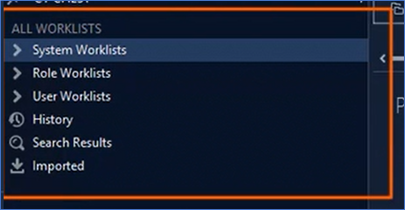
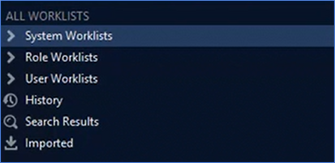
info-window image clean up and format organization

Changed region(s): [[0.0, 0.0, 1.0, 1.0]]

diff --git a/src/content/docs/en/info-window.md b/src/content/docs/en/info-window.md
@@ -7,56 +7,36 @@ This is the main screen upon loading into IDS7 PACS.
 
 ![Information Window Image](/basics/info-window.png)
 
-<br /><br />
+<br />
 
-### Top Side
-- **Menu Bar**:
+---
 
-    ![Menu Bar](/basics/menubar.png)
-<br /><br /><br />
+## Top Side
 
-- **Toolbar**:
-    - Most commonly used tools, based on users preferred role
+### Menu Bar &emsp; ![Menu Bar](/basics/menubar.png)
 
-    ![Toolbar](/basics/toolbar.png)
-<br /><br /><br />
+### Toolbar
 
-- **Patient Banner**:
-    - Displays selected patient's name/DOB/sex/MRN, and other relevant alerts (i.e.~ allergies)
+![Toolbar](/basics/toolbar.png)
 
-    ![Patient Banner](/basics/patientbanner.png)
-<br /><br /><br />
+- Most commonly used tools, based on users preferred role
 
-- **Toolbar Alert**:
-    - located top-right corner
-    - Warnings and other prompts to the users will be displayed - refer to the user guide within PACS via `[F1] hotkey` for more details
+> 💡 **Tip:** Buttons and sequence order can be changed by `Right-Click`ing the toolbar, and selecting *Customize Toolbar*
+
+### Patient Banner
+
+![Patient Banner](/basics/patientbanner.png)
+
+- Displays selected patient's name/DOB/sex/MRN, and other relevant alerts (i.e.~ allergies)
+
+### Toolbar Alert
 
 <img src="/basics/toolbar-alert.png" width="207" height="140">
 
-<br/>
+<br />
 
----
-
-<br/>
-
-### Left Side
-- **Worklist Groups**:
-    - Different often-used worklists can be dragged and dropped into this region
-
-    > 💡 **Tip:** Customize your own worklist groupings, then use the dropdown arrow to change from favorites to a different group!
-
-    ![Worklist Group](/basics/worklist-group.png)
-
-<br/>
-
-- **Complete Worklist Tree**:
-    - Shows all available premade worklists, sorted by System, Role, and User levels
-    - **History**
-        : tab allows you to quickly navigate your previously viewed cases
-    - **Search Results**
-        : for any previous searches you've made, the results will still be available to view again until a new search is made
-
-    ![Complete Worklist Tree](/basics/complete-worklist-tree.png)
+- located top-right corner
+- Warnings and other prompts to the users will be displayed - refer to the user guide within PACS via `[F1] hotkey` for more details
 
 <br/>
 
@@ -64,52 +44,75 @@ This is the main screen upon loading into IDS7 PACS.
 
 <br/>
 
-### Center Screen
-- **Worklist Results**:
-    - Displays all matching studies for the selected worklist
+## Left Side
 
-    ![Worklist Results](/basics/worklist-results.png)
+### Worklist Groups
+    
+![Worklist Group](/basics/worklist-group.png)
 
-<br/>
+- A place to organize your different worklist sets
+- Worklists found in the **Complete Worklist Tree** *(see below)* can be drag-and-dropped into this region for future quick access
+- Everyone has a `FAVORITES` Worklist Group by default
 
-- **Patient History**:
-    - a.k.a.~ Patient Jacket
-    - All examinations for the selected patient will be displayed
-    - `Double-Clicking` on the on an exam will set it as the "current exam", marking it with a green arrow, and opening the study into the [Image Window](/en/image-window)
+> 💡 **Tip:** Click the dropdown arrow beside `FAVORITES`, and then select *New Worklist Group* to generate a new empty group for use!
 
-    ![Patient History](/basics/patient-history.png)
+### Complete Worklist Tree
 
-<br/>
+![Complete Worklist Tree](/basics/complete-worklist-tree.png)
 
-- **Image Overview**:
-    - Will display the thumbnails of all series within the study
-    - `Double-Clicking` on the thumbnail will open the image in the [Quick Window](/en/quick-window)
+- Shows all available premade worklists, sorted by System, Role, and User levels
+- **History Tab:**
+    
+    <br />
 
-    ![Image Overview](/basics/image-overview.png)
-    <br/><br/>
-    - `Drag` the thumbnail to produce a "mini-monitor" to quickly set which series to be viewed in the [Image Window](/en/image-window)
+    - Allows you to quickly navigate your previously viewed cases
+    - See [Notable Functionalities](#notable-functionalities) for more details
 
-    ![Image Overview Drag Feature](/basics/image-overview-drag.png)
+    <br />
 
-<br/>
+- **Search Results:**
 
----
-
-<br/>
-
-### Right Side
-- **Request View**:
-    - Shows request, case history, and comments of selected study
-
-    ![Request View](/basics/request-view.png)
+    <br />
+    
+    - For any previous searches you've made, the results will still be available to view again until a new search is made
+    - See [Notable Functionalities](#notable-functionalities) for more details
 
 <br />
 
-- **Report View**:
-    - Shows all reports for the selected examination
-    - If multiple reports are present for that study, you may toggle between reports using the left | right arrow buttons
+---
 
-    ![Report View](/basics/report-view.png)
+<br />
+
+## Center Screen
+
+### Worklist Results
+
+![Worklist Results](/basics/worklist-results.png)
+
+- Displays all matching studies for the selected worklist
+
+<br/>
+
+### Patient History
+
+![Patient History](/basics/patient-history.png)
+
+- a.k.a.~ Patient Jacket
+- All examinations for the selected patient will be displayed
+- `Double-Clicking` on the on an exam will set it as the "current exam", marking it with a green arrow, and opening the study into the [Image Window](/en/image-window)
+
+<br/>
+
+### Image Overview
+
+![Image Overview](/basics/image-overview.png)
+
+- Will display the thumbnails of all series within the study
+- `Double-Clicking` on the thumbnail will open the image in the [Quick Window](/en/quick-window)
+
+![Image Overview Drag Feature](/basics/image-overview-drag.png)
+
+- `Drag` a thumbnail produces a "mini-monitor" to quickly set which series to be viewed in the [Image Window](/en/image-window)
 
 <br/>
 
@@ -117,36 +120,55 @@ This is the main screen upon loading into IDS7 PACS.
 
 <br/>
 
-### Information Window Notable Functionalities:
-- **Patient Search**:
-    - Located in the top toolbar, two possible Search Buttons to press
+## Right Side
 
-    ##### Option 1: "Search Ttt" button &emsp; ![Search Ttt](/basics/searchTtt-button.png)
-    - Search quickly via the search bar that appears on the patient banner
-    - Enter in `MRN`, `patient name`, `DOB`, or `accession number`, then hit `[Enter]` on the keyboard
+### Request View
 
-    ![Search Bar](/basics/search-bar.png)
+![Request View](/basics/request-view.png)
 
-    ##### Option 2: "Search" button &emsp; ![Search](/basics/search-button.png)
-    - Search criteria window will open on the bottom right panel
-    - Can search by first criteria, or optionally fill the second criteria to focus your search
-    - Sectra PACS will do a **full database search** of the search parameters, so it is important to be *specific*
+- Shows request, case history, and comments of selected study
 
-    ![Search Criteria](/basics/search-criteria.png)
+### Report View
 
-<br />
+![Report View](/basics/report-view.png)
 
-- **History**:
-    <br /><br />
-    - Allows navigation of recently visited patient jackets utilizing the "Back" and "Forward" buttons on the toolbar
-    <br /><br />
-    ![History Back and Forward](/basics/history-fwd-back.png)
-    <br /><br />
-    - We can also access history via the left side-panel:
-    <br /><br />
-    ![History Left Panel](/basics/history-left-panel.png)
-    <br /><br />
-    - The central panel will then list all recently visited studies
-    - Filter through the history list using the text boxes under the relevant column criterias
-    <br /><br />
-    ![History Center Panel](/basics/history-center-panel.png)
+- Shows all reports for the selected examination
+- Studies with multiple reports can be toggled  by the left and right arrows in the top-right-corner
+
+---
+
+<br/>
+
+## Notable Functionalities
+
+### Patient Search
+- Located in the top toolbar, two possible Search Buttons to press
+
+##### Option 1: "Search Ttt" button &emsp; ![Search Ttt](/basics/searchTtt-button.png)
+- A search bar appears where patient banner was
+- Enter in `MRN`, `patient name`, `DOB`, or `accession number`, then hit `[Enter]` on the keyboard
+
+![Search Bar](/basics/search-bar.png)
+
+##### Option 2: "Search" button &emsp; ![Search](/basics/search-button.png)
+- Search criteria window will open on the bottom right panel
+- Can search by first criteria, or optionally fill the second criteria to focus your search
+- Sectra PACS will do a **full database search** of the search parameters, so it is important to be *specific*
+
+![Search Criteria](/basics/search-criteria.png)
+
+### History
+
+![History Back and Forward](/basics/history-fwd-back.png)
+
+- The `Back | Forward` buttons on the toolbar allows navigation of recently visited patient jackets utilizing the "Back" and "Forward" buttons on the toolbar
+
+- We can also access history via the left side-panel:
+
+![History Left Panel](/basics/history-left-panel.png)
+
+- The central panel will then list all recently visited studies:
+
+![History Center Panel](/basics/history-center-panel.png)
+
+- Filter through the history list using the text boxes under the relevant columns

diff --git a/src/content/docs/en/ultrasound-workflow.md b/src/content/docs/en/ultrasound-workflow.md
@@ -5,10 +5,10 @@ description: "Step-by-step workflow guide for the Ultrasound modality"
 
 ---
 
-### 1. Find Patient
+## 1. Find Patient
 In the [Information Window](/en/info-window) by...
 
-- **Preset Worklists** on the left side panel:
+- **Modality Worklists** on the left side panel:
 
     ![Worklist Panel](/basics/info-worklist-panel.png)
 
@@ -24,10 +24,28 @@ In the [Information Window](/en/info-window) by...
 
     ![Search Criteria](/basics/search-criteria.png)
 
-From here you have two options:
-    
-- Launch [Quick Window](/en/quick-window) via `Double-Click`ing the thumbnails at the bottom once a study is selected, to *quickly* look through a series
+<br />
 
-- Launch [Image Window](/en/image-window) via `Double-Click`ing the study
+---
 
-### 2. //TODO
+<br />
+
+## 2. Enter Image Viewing
+
+### Launch [Quick Window](/en/quick-window)
+
+- Via `Double-Click`ing the thumbnails at the bottom once a study is selected
+- Quick Window will allow you to look through the corresponding series thumbnail you opened
+
+> 💡 **Tip:** Use the Quick Window for when you need to briefly screen through a series
+
+### Launch [Image Window](/en/image-window)
+
+- Via `Double-Click`ing the study you want to view in the patient jacket
+- Access the patient jacket by clicking the "thumbnail" icon on the toolbar at the top
+
+> 💡 **Tip:** Use the Image Window for looking at past history more thoroughly, especially for comparing side-by-side studies
+
+## 3. Complete and Verify
+
+- 
